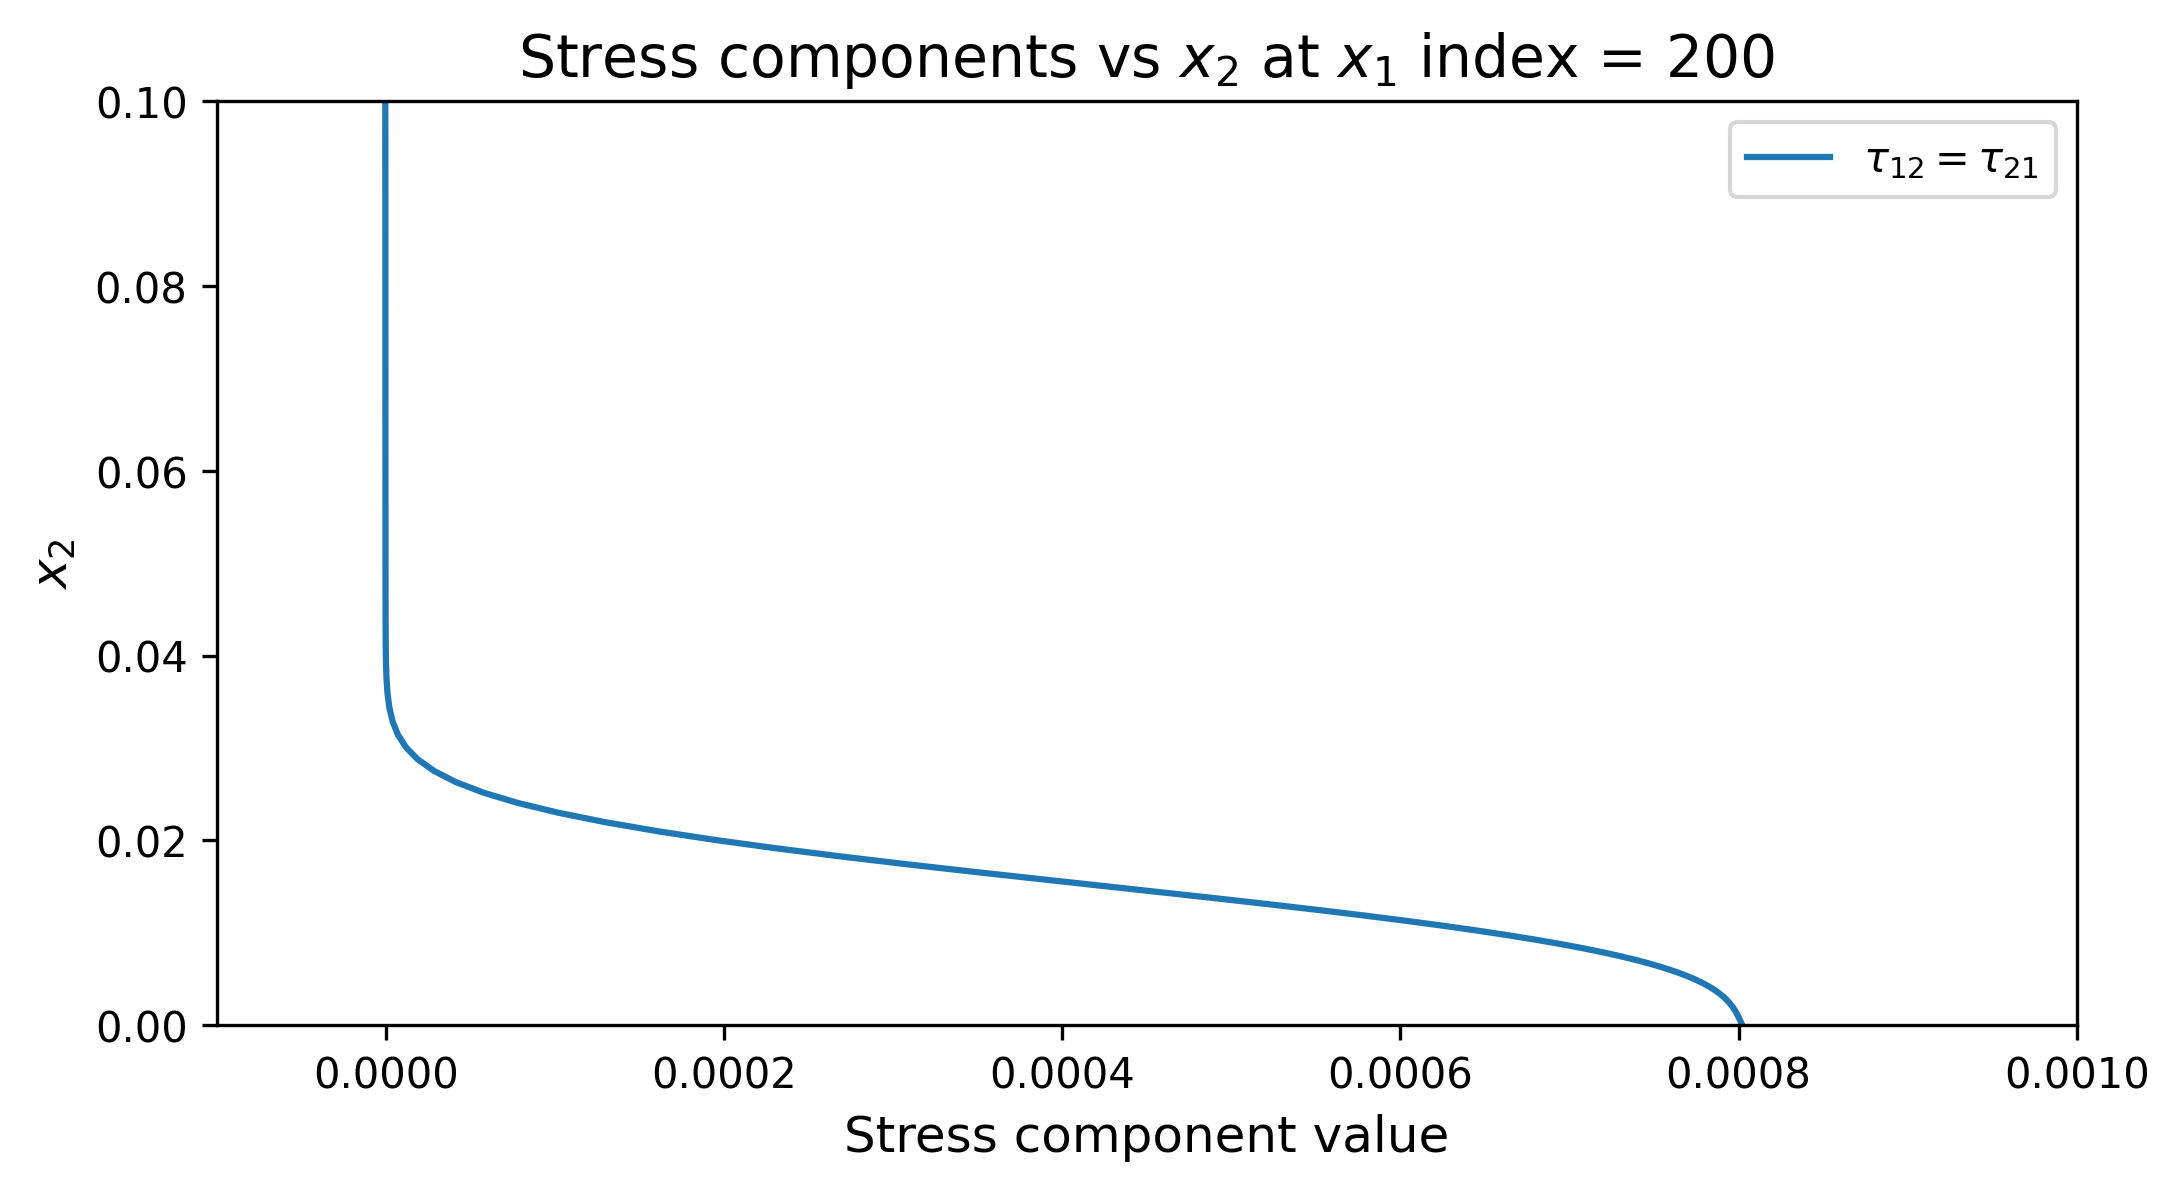
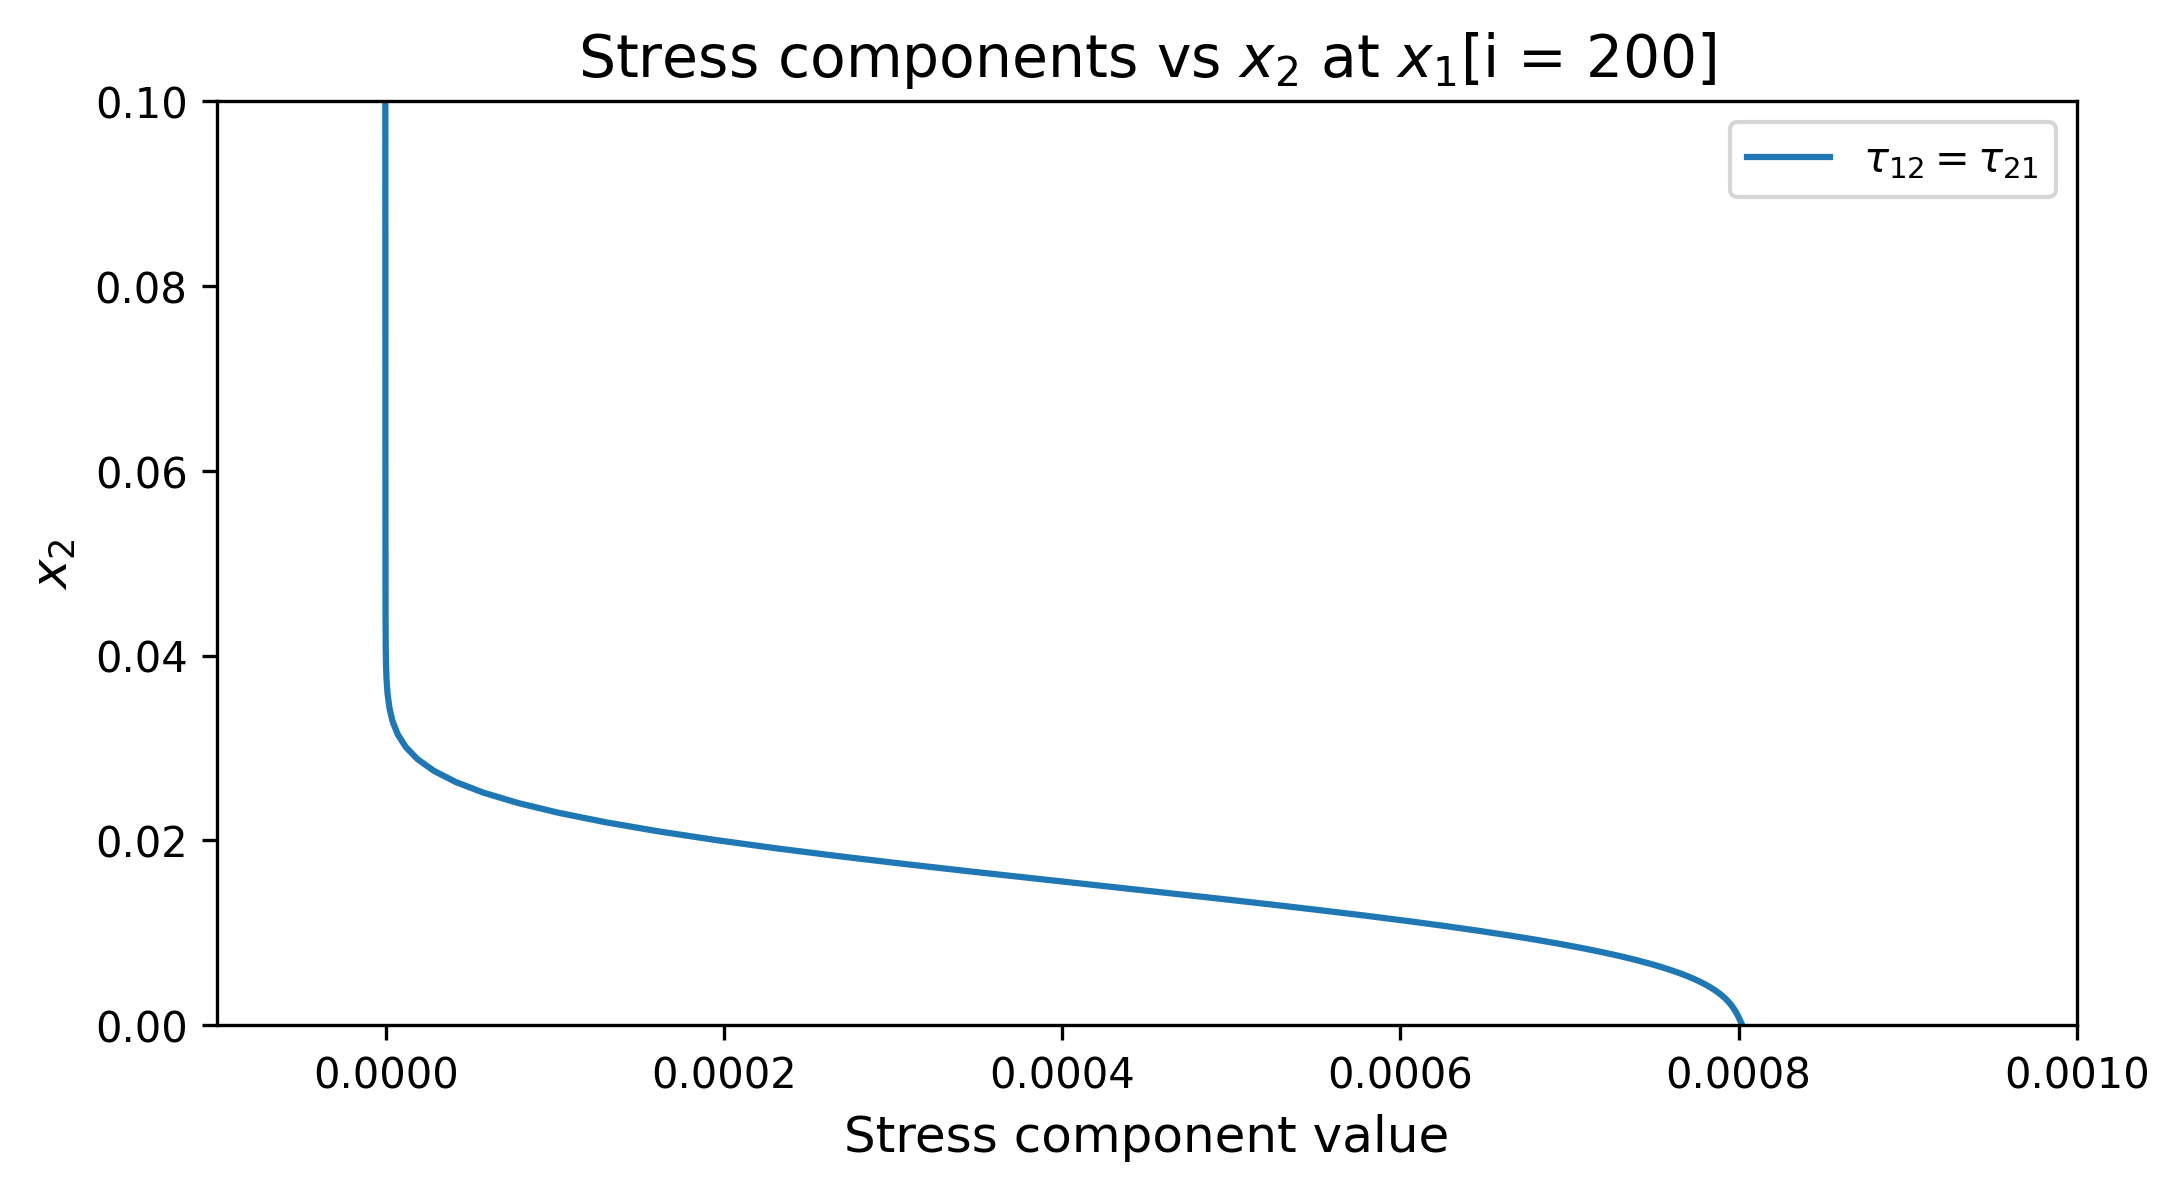
.

Changed region(s): [[0.2184, 0.0311, 0.8114, 0.0932]]

diff --git a/TME226/A1 (TME226) - Martin.py b/TME226/A1 (TME226) - Martin.py
@@ -846,7 +846,7 @@ plt.figure()
 
 plt.plot(eigval_slice, yp, label="Eigenvalue")
 
-plt.title(fr"Eigenvalue vs $x_2$ at $x_1$ index = {i}")
+plt.title(fr"Eigenvalue vs $x_2$ at $x_1$[i = {i}]")
 plt.ylabel(fr"$x_2$")
 plt.xlabel("$\lambda$")
 plt.axis([-0.0001,0.001,0,0.1])
@@ -861,7 +861,7 @@ plt.plot(tau11_slice, yp, label=r"$\tau_{11}$")
 # plt.plot(tau21_slice, yp, label=r"$\tau_{21}$")
 plt.plot(tau22_slice, yp, label=r"$\tau_{22}$")
 
-plt.title(fr"Stress components vs $x_2$ at $x_1$ index = {i}")
+plt.title(fr"Stress components vs $x_2$ at $x_1$[i = {i}]")
 plt.axis([-5e-6,5e-6,0,0.25])
 # plt.axis([0,0.3,-0.000005,0.000008])
 plt.ylabel(fr"$x_2$")
@@ -875,7 +875,7 @@ plt.figure()
 
 plt.plot(tau12_slice, yp, label=r"$\tau_{12} = \tau_{21}$")
 
-plt.title(fr"Stress components vs $x_2$ at $x_1$ index = {i}")
+plt.title(fr"Stress components vs $x_2$ at $x_1$[i = {i}]")
 plt.axis([-0.0001,0.001,0,0.1])
 plt.ylabel(fr"$x_2$")
 plt.xlabel("Stress component value")
